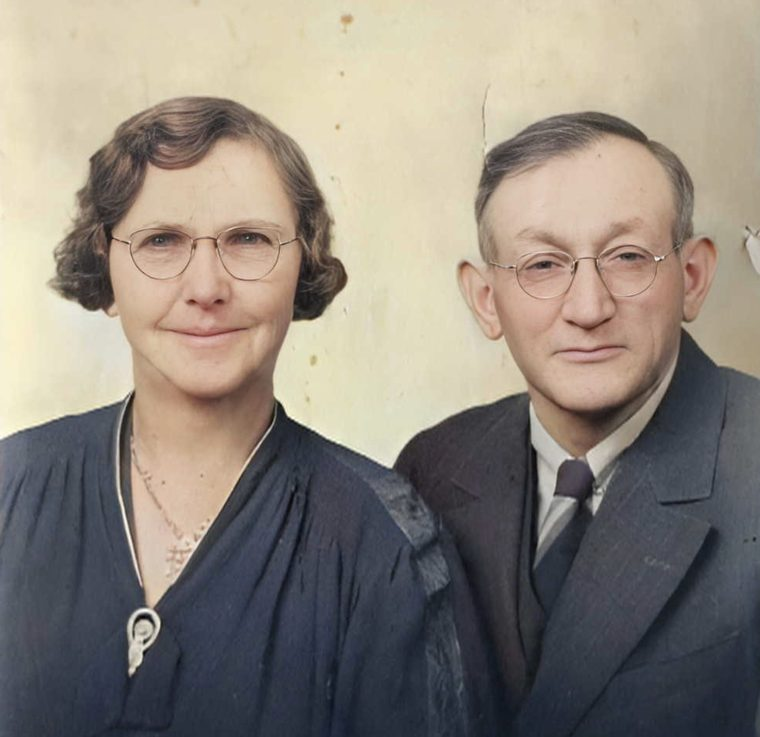
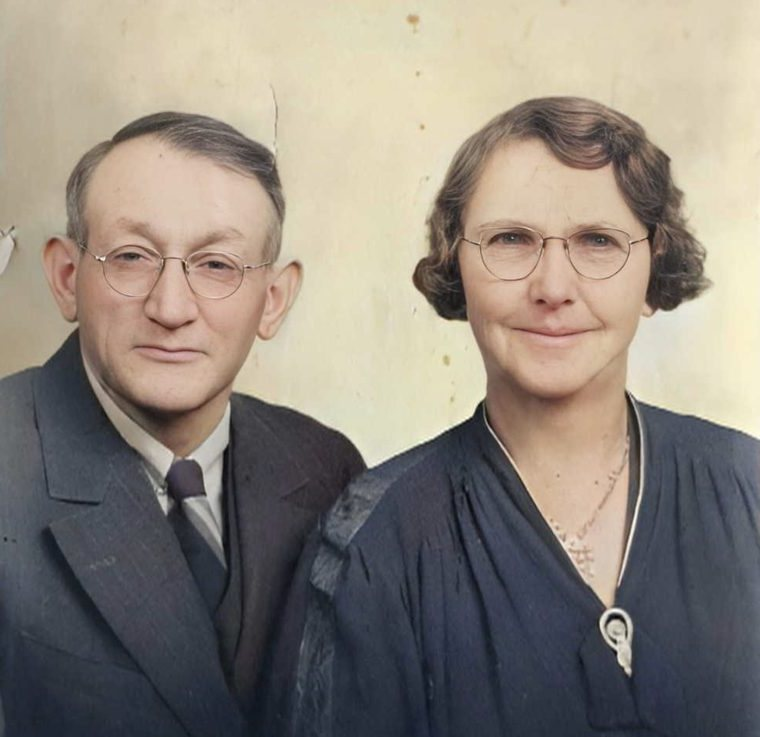
Mirror J.D./Dorothy, Claude/Nellie, Arthur/Elizabeth photos to their sides; fancy ampersand

diff --git a/gaylord-arda/index.html b/gaylord-arda/index.html
@@ -23,6 +23,6 @@
 </div></section>
 <main id="site" hidden></main>
 <div class="band foot"><div class="wrap">FamilyBaum: Connecting Cousins and Reconstructing Ancestors · private family page · please keep the password within the family · <button class="linkbtn" type="button" id="forget">Forget passwords on this device</button></div></div>
[2 lines of base64/hex data omitted]
 <script src="/gate.js"></script>
 </body></html>

diff --git a/index.html b/index.html
@@ -13,7 +13,7 @@
 <p class="sub">A DNA Reconstruction Project of the ancestors and descendants of Gaylord &amp; Arda Baum, their cousins and kin.</p>
 <p class="clickhint">Click on Gaylord &amp; Arda's photo to see their family information.</p>
 </div>
-<div class="ftree"><div class="slot g3 p1"><figure class="cp"><div class="ph two"><img src="/photos/daniel-baum.jpg" alt="Daniel Gerald Baum" loading="lazy"><img src="/photos/ann-eliza-britten.jpg" alt="Ann Eliza Britten" loading="lazy"></div><figcaption><span class="pp">Daniel Gerald Baum <span class="yy">(1852–1932)</span></span><span class="pp">Ann Eliza Britten <span class="yy">(1845–1914)</span></span></figcaption></figure></div><div class="slot g3 p2"><figure class="cp"><div class="ph two"><img src="/photos/david-ripley.jpg" alt="David J. Ripley" loading="lazy"><img src="/photos/elizabeth-krebs.jpg" alt="Elizabeth Ellen Krebs" loading="lazy"></div><figcaption><span class="pp">David J. Ripley <span class="yy">(1852–1909)</span></span><span class="pp">Elizabeth Ellen Krebs <span class="yy">(1860–1926)</span></span></figcaption></figure></div><div class="slot g3 p3"><figure class="cp"><div class="ph two"><img src="/photos/william-cowles.jpg" alt="William A. Cowles" loading="lazy"><img src="/photos/nancy-french.jpg" alt="Nancy A. French" loading="lazy"></div><figcaption><span class="pp">William A. Cowles <span class="yy">(1845–1914)</span></span><span class="pp">Nancy A. French <span class="yy">(1847–1921)</span></span></figcaption></figure></div><div class="slot g3 p4"><figure class="cp"><div class="ph"><img src="/photos/arthur-geneva.jpg" alt="Arthur J. May and Elizabeth Geneva Brown" loading="lazy"></div><figcaption><span class="pp">Arthur J. May <span class="yy">(1860–1942)</span></span><span class="pp">Elizabeth Geneva Brown <span class="yy">(1866–1957)</span></span></figcaption></figure></div><div class="slot g2 p1"><figure class="cp"><div class="ph"><img src="/photos/jd-dorothy.jpg" alt="J. D. Baum and Dorothy Ripley" loading="lazy"></div><figcaption><span class="pp">J. D. Baum <span class="yy">(1882–1966)</span></span><span class="pp">Dorothy Ripley <span class="yy">(1886–1962)</span></span></figcaption></figure></div><div class="slot g2 p2"><figure class="cp"><div class="ph"><img src="/photos/claude-nellie.jpg" alt="Claude F. Cowles and Nellie Viola May" loading="lazy"></div><figcaption><span class="pp">Claude F. Cowles <span class="yy">(1875–1950)</span></span><span class="pp">Nellie Viola May <span class="yy">(1888–1923)</span></span></figcaption></figure></div><div class="slot g1 p1"><a class="cplink" href="/gaylord-arda/" aria-label="Open the family page for Gaylord D. Baum and Arda May Cowles"><figure class="cp"><div class="ph"><img src="/photos/gaylord-arda.jpg" alt="Gaylord D. Baum and Arda May Cowles" loading="lazy"></div><figcaption><span class="pp">Gaylord D. Baum <span class="yy">(1904–1978)</span></span><span class="pp">Arda May Cowles <span class="yy">(1908–1986)</span></span></figcaption></figure></a></div></div>
+<div class="ftree"><div class="slot g3 p1"><figure class="cp"><div class="ph two"><img src="/photos/daniel-baum.jpg" alt="Daniel Gerald Baum" loading="lazy"><img src="/photos/ann-eliza-britten.jpg" alt="Ann Eliza Britten" loading="lazy"></div><figcaption><span class="pp">Daniel Gerald Baum <span class="yy">(1852–1932)</span></span><span class="amp" aria-hidden="true">&amp;</span><span class="pp">Ann Eliza Britten <span class="yy">(1845–1914)</span></span></figcaption></figure></div><div class="slot g3 p2"><figure class="cp"><div class="ph two"><img src="/photos/david-ripley.jpg" alt="David J. Ripley" loading="lazy"><img src="/photos/elizabeth-krebs.jpg" alt="Elizabeth Ellen Krebs" loading="lazy"></div><figcaption><span class="pp">David J. Ripley <span class="yy">(1852–1909)</span></span><span class="amp" aria-hidden="true">&amp;</span><span class="pp">Elizabeth Ellen Krebs <span class="yy">(1860–1926)</span></span></figcaption></figure></div><div class="slot g3 p3"><figure class="cp"><div class="ph two"><img src="/photos/william-cowles.jpg" alt="William A. Cowles" loading="lazy"><img src="/photos/nancy-french.jpg" alt="Nancy A. French" loading="lazy"></div><figcaption><span class="pp">William A. Cowles <span class="yy">(1845–1914)</span></span><span class="amp" aria-hidden="true">&amp;</span><span class="pp">Nancy A. French <span class="yy">(1847–1921)</span></span></figcaption></figure></div><div class="slot g3 p4"><figure class="cp"><div class="ph"><img src="/photos/arthur-geneva.jpg" alt="Arthur J. May and Elizabeth Geneva Brown" loading="lazy"></div><figcaption><span class="pp">Arthur J. May <span class="yy">(1860–1942)</span></span><span class="amp" aria-hidden="true">&amp;</span><span class="pp">Elizabeth Geneva Brown <span class="yy">(1866–1957)</span></span></figcaption></figure></div><div class="slot g2 p1"><figure class="cp"><div class="ph"><img src="/photos/jd-dorothy.jpg" alt="J. D. Baum and Dorothy Ripley" loading="lazy"></div><figcaption><span class="pp">J. D. Baum <span class="yy">(1882–1966)</span></span><span class="amp" aria-hidden="true">&amp;</span><span class="pp">Dorothy Ripley <span class="yy">(1886–1962)</span></span></figcaption></figure></div><div class="slot g2 p2"><figure class="cp"><div class="ph"><img src="/photos/claude-nellie.jpg" alt="Claude F. Cowles and Nellie Viola May" loading="lazy"></div><figcaption><span class="pp">Claude F. Cowles <span class="yy">(1875–1950)</span></span><span class="amp" aria-hidden="true">&amp;</span><span class="pp">Nellie Viola May <span class="yy">(1888–1923)</span></span></figcaption></figure></div><div class="slot g1 p1"><a class="cplink" href="/gaylord-arda/" aria-label="Open the family page for Gaylord D. Baum and Arda May Cowles"><figure class="cp"><div class="ph"><img src="/photos/gaylord-arda.jpg" alt="Gaylord D. Baum and Arda May Cowles" loading="lazy"></div><figcaption><span class="pp">Gaylord D. Baum <span class="yy">(1904–1978)</span></span><span class="amp" aria-hidden="true">&amp;</span><span class="pp">Arda May Cowles <span class="yy">(1908–1986)</span></span></figcaption></figure></a></div></div>
 <div class="heronote">
 <p>Gaylord and Arda never took a DNA test. Their descendants carry the pieces, and by comparing our results we are rebuilding a DNA profile for each of them, and from theirs, for the couples above. If you found us through an Ancestry match, you probably carry some of those pieces too. You're very welcome here.</p>
 <nav class="nav"><a href="#results">DNA results</a><a href="#tree">Family tree</a><a href="#photos">Photos</a><a href="#help">How to help</a><a href="#family">Family pages</a></nav>

diff --git a/style.css b/style.css
@@ -202,3 +202,7 @@ h3{font-size:20px;line-height:1.2;margin:0 0 6px}
 .ftree{justify-items:center;margin-left:auto;margin-right:auto;max-width:1240px}
 .slot{justify-content:center;width:100%}
 .cp .yy{white-space:nowrap}
+/* fancy ampersand between husband and wife */
+.cp figcaption .amp{display:block!important;font-family:Fraunces,Georgia,serif;font-style:italic;font-weight:500;font-size:22px;line-height:1;margin:1px 0 3px;color:#5b2a42}
+.g1 .cp figcaption .amp{font-size:28px}
+@media(max-width:760px){.g3 .cp figcaption .amp{font-size:18px}}
